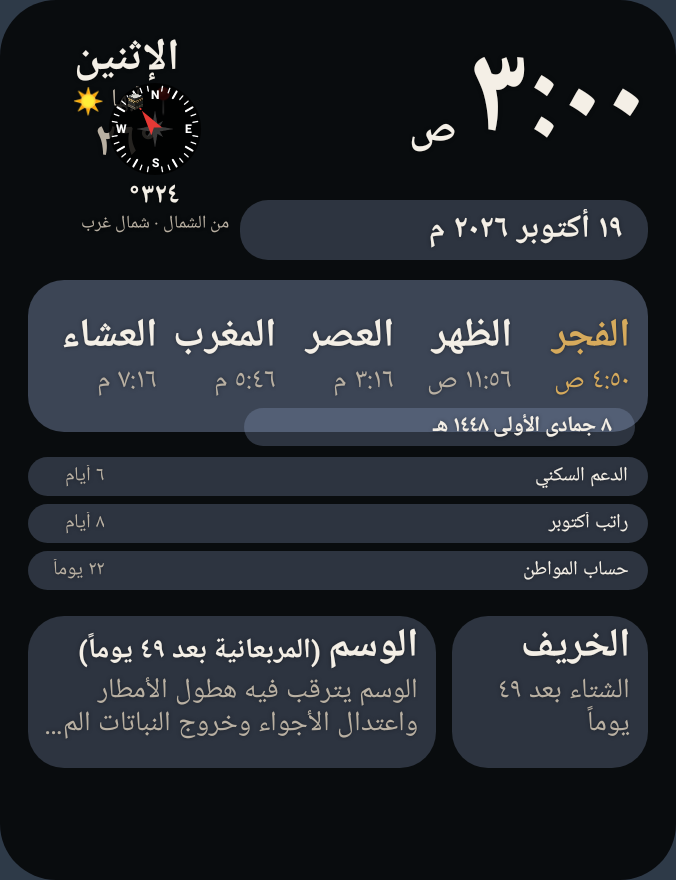
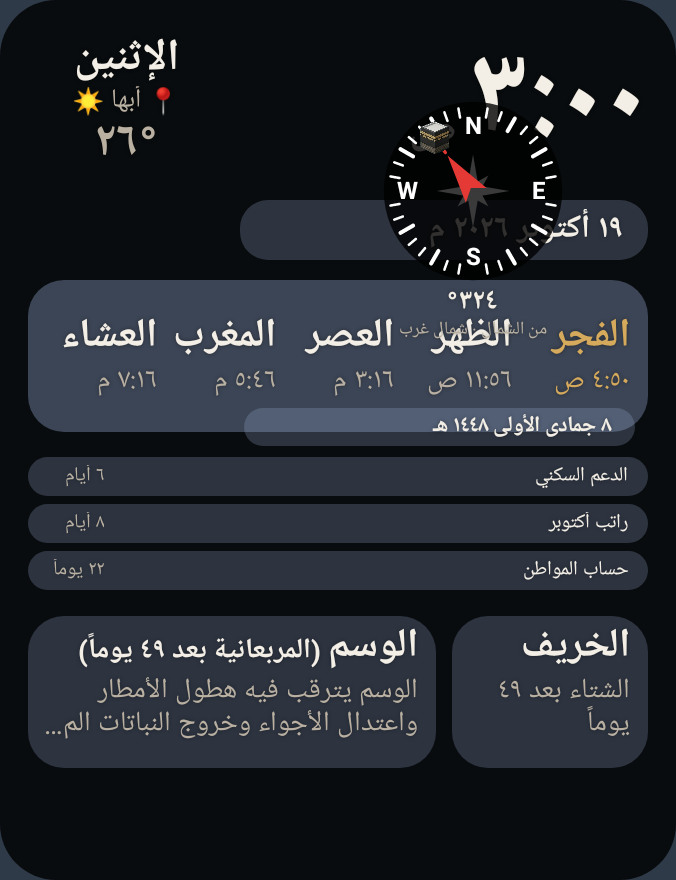
لمحة: دائرة البوصلة تملأ مربعها (سقف شريط الحجم ٥٠٠٪) بلا هوامش (DECISIONS ٢٩ب)
Claude-Session: https://claude.ai/code/session_01G1Syvb9ovdsa3bx3n1bnp4

Changed region(s): [[0.5592, 0.1227, 0.8388, 0.3989], [0.1243, 0.092, 0.3417, 0.2761], [0.5902, 0.3682, 0.6834, 0.3989]]

diff --git a/apps/lamha/test/app/customize_screen_test.dart b/apps/lamha/test/app/customize_screen_test.dart
@@ -264,7 +264,7 @@ void main() {
     // أيقونة القبلة بشريط حجم لا بـ«صغير/وسط/عريض».
     expect(find.byKey(const Key('span-qibla')), findsNothing);
     final iconSlider = tester.widget<Slider>(find.byKey(const Key('qibla-icon-size')));
-    expect((iconSlider.min, iconSlider.max, iconSlider.divisions, iconSlider.value), (0.5, 1.6, 22, 1.0));
+    expect((iconSlider.min, iconSlider.max, iconSlider.divisions, iconSlider.value), (0.5, 5.0, 90, 1.0));
     Finder icon() => find.descendant(of: tile('qibla'), matching: find.byKey(const Key('preview-qibla-icon')));
     final before = tester.getSize(icon()).width;
     final sliderBox = find.byKey(const Key('qibla-icon-size'));
@@ -279,7 +279,7 @@ void main() {
     expect(bridge.saved.length, saves, reason: 'لا حفظ أثناء السحب');
     await g.up();
     await tester.pumpAndSettle();
-    expect(tileOf(bridge, 'qibla')['iconScale'], 1.6);
+    expect(tileOf(bridge, 'qibla')['iconScale'], 5.0);
     await tester.tapAt(Offset(c.dx + w / 2 - 2, c.dy));
     await tester.pumpAndSettle();
     expect(tileOf(bridge, 'qibla')['iconScale'], 0.5);

diff --git a/apps/lamha/test/app/android_fixture_test.dart b/apps/lamha/test/app/android_fixture_test.dart
@@ -41,7 +41,7 @@ String fixture(
           ? [
               for (final t in defaultLayout)
                 t.id == WidgetElement.qibla
-                    ? t.copyWith(float: () => const FloatRect(0.62, 0.08, 0.3, 0.2))
+                    ? t.copyWith(float: () => const FloatRect(0.04, 0.1, 0.52, 0.3), iconScale: 5.0)
                     : t.id == WidgetElement.hijri
                         ? t.copyWith(float: () => const FloatRect(0.05, 0.45, 0.6, 0.07))
                         : t,
@@ -85,7 +85,8 @@ void main() {
     expect(file.readAsStringSync(), json);
     final root = jsonDecode(json) as Map;
     final q = (root['layout'] as List).cast<Map>().firstWhere((t) => t['id'] == 'qibla');
-    expect(q['float'], [0.62, 0.08, 0.3, 0.2]);
+    expect(q['float'], [0.04, 0.1, 0.52, 0.3]);
+    expect(q['iconScale'], 5.0, reason: 'أقصى الشريط: الدائرة تملأ مربعها');
     expect(jsonEncode(root['tree']), isNot(contains('qibla')));
     expect(jsonEncode(root['tree']), isNot(contains('hijri')));
   });

diff --git a/apps/lamha/test/engine/widget_layout_test.dart b/apps/lamha/test/engine/widget_layout_test.dart
@@ -293,7 +293,7 @@ void main() {
       expect(tileIconScale(null), 1.0);
       expect(tileIconScale('x'), 1.0);
       expect(tileIconScale(0.1), 0.5);
-      expect(tileIconScale(9), 1.6);
+      expect(tileIconScale(9), 5.0);
       expect(tileIconScale(0.87), closeTo(0.85, 1e-9));
       expect(tileIconScale(1.33), closeTo(1.35, 1e-9));
       expect(const TileLayout(WidgetElement.qibla).iconScale, 1.0);
@@ -325,6 +325,9 @@ void main() {
       // خانة وحدتين بعرض ٢٠٤: الأساس من الوحدة الواحدة (١٠٢) = ٨٦٫٧، ×١٫٦ = ١٣٨٫٧
       expect(qiblaIconSize(204, 2, 1.6), closeTo(138.72, 0.01));
       expect(qiblaIconSize(60, 1, 1.6), 60);
+      // أقصى الشريط (٥٠٠٪): الدائرة تملأ عرض خانتها بلا هوامش (الارتفاع يقصّها لاحقاً في الرسم).
+      expect(qiblaIconSize(204, 2, 5.0), 204);
+      expect(qiblaIconSize(98, 1, 5.0), 98);
       expect(qiblaIconSize(0, 1, 1.0), 36);
     });
   });

diff --git a/apps/lamha/ios/LamhaWidget/LamhaWidget.swift b/apps/lamha/ios/LamhaWidget/LamhaWidget.swift
@@ -465,7 +465,9 @@ struct LamhaWidgetView: View {
                 let st = s.style(["qibla"])
                 // الأيقونة تملأ مربعها (بحجمها المختار ٠٫٥–١٫٦ من ٦٢٪ من أصغر بُعديه) وتحتها الزاوية والاتجاه.
                 let text: CGFloat = st.showTitle ? 30 : 0
-                let side = max(min(g.size.width, g.size.height - text) * CGFloat(0.62 * s.qiblaIconScale), 20)
+                let room = min(g.size.width, g.size.height - text)
+                // الشريط حتى ٥٠٠٪: ما فوق المربع يُقصّ إلى المربع نفسه (الدائرة تصل حوافه بلا هوامش).
+                let side = max(min(room, room * CGFloat(0.62 * s.qiblaIconScale)), 20)
                 qibla(s, width: min(side, g.size.width))
                     .frame(width: g.size.width, height: g.size.height)
             }

diff --git a/apps/lamha/lib/src/engine/widget_layout.dart b/apps/lamha/lib/src/engine/widget_layout.dart
@@ -107,9 +107,10 @@ double tileFontScale(Object? raw) {
 }
 
 /// حجم أيقونة القبلة (طلب المالك ٣٠/١٠/٢٠٢٦، بدل «صغير/وسط/عريض»): شريط من [tileIconMin] إلى
-/// [tileIconMax] بخطوة [tileIconStep]. ١٫٠ = المقاس المرغوب لخانة بعرض وحدة واحدة.
+/// [tileIconMax] بخطوة [tileIconStep]. ١٫٠ = المقاس المرغوب لخانة بعرض وحدة واحدة. السقف ٥٫٠ (طلب المالك ١٣ نوفمبر:
+/// الدائرة تصل إلى حواف مربعها بلا هوامش): ما فوق مقاس المربع يُقصّ إلى المربع نفسه، فأقصى الشريط = الملء.
 const tileIconMin = 0.5;
-const tileIconMax = 1.6;
+const tileIconMax = 5.0;
 const tileIconStep = 0.05;
 
 /// معامل حجم الأيقونة ضمن المدى وعلى خطوة ٠٫٠٥.

diff --git a/apps/lamha/android/app/src/test/kotlin/sa/lamha/lamha/widget/LamhaLogicTest.kt b/apps/lamha/android/app/src/test/kotlin/sa/lamha/lamha/widget/LamhaLogicTest.kt
@@ -189,6 +189,9 @@ class LamhaLogicTest {
         // الحالات نفسها في widget_layout_test.dart (مقاس أيقونة القبلة).
         assertEquals(83.3f, LamhaLogic.qiblaIconSize(98f, 1, 1f), 0.05f)
         assertEquals(41.65f, LamhaLogic.qiblaIconSize(98f, 1, 0.5f), 0.05f)
+        // أقصى الشريط (٥٠٠٪): الدائرة تملأ عرض خانتها (الحالات نفسها في widget_layout_test.dart).
+        assertEquals(204f, LamhaLogic.qiblaIconSize(204f, 2, 5f), 1e-4f)
+        assertEquals(98f, LamhaLogic.qiblaIconSize(98f, 1, 5f), 1e-4f)
         assertEquals(138.72f, LamhaLogic.qiblaIconSize(204f, 2, 1.6f), 0.05f)
         assertEquals(60f, LamhaLogic.qiblaIconSize(60f, 1, 1.6f), 1e-4f)
         assertEquals(36f, LamhaLogic.qiblaIconSize(0f, 1, 1f), 1e-4f)

diff --git a/apps/lamha/android/app/src/main/kotlin/sa/lamha/lamha/widget/LamhaSchedule.kt b/apps/lamha/android/app/src/main/kotlin/sa/lamha/lamha/widget/LamhaSchedule.kt
@@ -158,7 +158,7 @@ object LamhaSchedule {
                 showSub = t.optBoolean("showSub", true),
                 primaryColor = if (t.isNull("primaryColor")) null else t.getLong("primaryColor").toInt(),
                 secondaryColor = if (t.isNull("secondaryColor")) null else t.getLong("secondaryColor").toInt(),
-                iconScale = t.optDouble("iconScale", 1.0).toFloat().coerceIn(0.5f, 1.6f),
+                iconScale = t.optDouble("iconScale", 1.0).toFloat().coerceIn(0.5f, 5f),
                 rect = t.optJSONArray("rect")?.let { r -> (0 until r.length()).map { r.getInt(it) } },
                 float = LamhaLogic.floatOf(t.optJSONArray("float")),
             )

diff --git a/apps/lamha/android/app/src/main/kotlin/sa/lamha/lamha/widget/LamhaWidgetReceiver.kt b/apps/lamha/android/app/src/main/kotlin/sa/lamha/lamha/widget/LamhaWidgetReceiver.kt
@@ -150,7 +150,7 @@ class LamhaWidgetReceiver : HomeWidgetProvider() {
         private const val QIBLA_ARROW_LENGTH = 0.24f
         private const val QIBLA_ARROW_HALF = 0.07f
         private const val QIBLA_STAR_LENGTH = 0.2f
-        private const val QIBLA_DIAL_MAX_PX = 360
+        private const val QIBLA_DIAL_MAX_PX = 512
         private const val QIBLA_ICON_DEFAULT_DP = 56f
         private const val POINT_SP = 10f
         private const val COLUMN_GAP_DP = 4f

diff --git a/apps/lamha/ios/LamhaWidget/LamhaData.swift b/apps/lamha/ios/LamhaWidget/LamhaData.swift
@@ -147,7 +147,7 @@ struct LamhaSnapshot {
 
     /// حجم أيقونة القبلة (٠٫٥–١٫٦، ١ افتراضياً).
     var qiblaIconScale: Double {
-        min(max(tiles.first { $0.id == "qibla" }?.iconScale ?? 1, 0.5), 1.6)
+        min(max(tiles.first { $0.id == "qibla" }?.iconScale ?? 1, 0.5), 5)
     }
 
     /// الساعة بتوقيت المدينة: «١٠:٣٥» و«ص» أو «م» (كساعة أندرويد وDart).

diff --git a/apps/lamha/DECISIONS.md b/apps/lamha/DECISIONS.md
@@ -226,3 +226,9 @@
 - **الإصلاح:** `android/app/proguard-rules.pro` بقواعد وثائق المكتبة (حفظ فئات المكتبة و`TypeToken` و`Signature`)، ومربوط في `buildTypes.release` بـ`proguard-android-optimize.txt` (الملف بلا `-optimize` يرفضه AGP). جُرّب بناء الإصدار محلياً: القواعد في `configuration.txt`، و٧٥٢ فئة من المكتبة وTypeToken في `seeds.txt`، والصوتان في الـAPK.
 - **إظهار الفشل:** `AdhanNotifier.lastError()` يخزّن آخر خطأ جدولة أو تجربة أو أذونات في shared_preferences، وقسم الأذان في الإعدادات يعرضه بنصه («تعذّر تنفيذ الأذان: …») ويختفي بعد نجاح الجدولة أو التجربة. فإن بقي الأذان لا يعمل بعد الإصلاح يظهر السبب بدل الصمت.
 - **لم يُجرَّب بعد على جهاز:** التنبيه في وقته، وزر «إيقاف»، وإذن المنبّه الدقيق.
+
+## ٢٩ب. دائرة البوصلة تملأ مربعها بلا هوامش (١٣ نوفمبر ٢٠٢٦، طلب المالك)
+- **الطلب (لقطة بأسهم حمراء):** الدائرة لا تكبر لتصل حواف مربعها العائم بعد توسيعه؛ تريدها بلا هوامش.
+- **السبب:** مقاس الدائرة = المرغوب (٨٥٪ من عرض الوحدة، بسقف ١١٠dp) × شريط الحجم، وسقف الشريط كان ١٦٠٪؛ فتبقى أصغر من مربع كبير.
+- **الحل:** سقف الشريط ٥٠٠٪ (`tileIconMax = 5.0` في Dart، و`coerceIn(0.5f, 5f)` في Kotlin، و٥ في Swift). ما فوق مقاس المربع يُقصّ إلى المربع نفسه (عرض الخانة، ثم الارتفاع ناقص سطري الزاوية والاتجاه)، فأقصى الشريط = الملء. إخفاء «العنوان» في تبويب الحجم يُعطي الدائرة ارتفاع السطرين أيضاً. الافتراضي (١٠٠٪) لم يتغير. صورة الدائرة في أندرويد حدّها ٥١٢ بكسل (كان ٣٦٠) لتبقى حادة وهي كبيرة.
+- **حد:** الدائرة تقف عند حدود المربع الداخلية (حشوة الخانة ٤dp)، لا عند حافة الودجت نفسها؛ ولجعل المربع نفسه على حافة الودجت يُسحب المربع العائم إلى الحافة.
